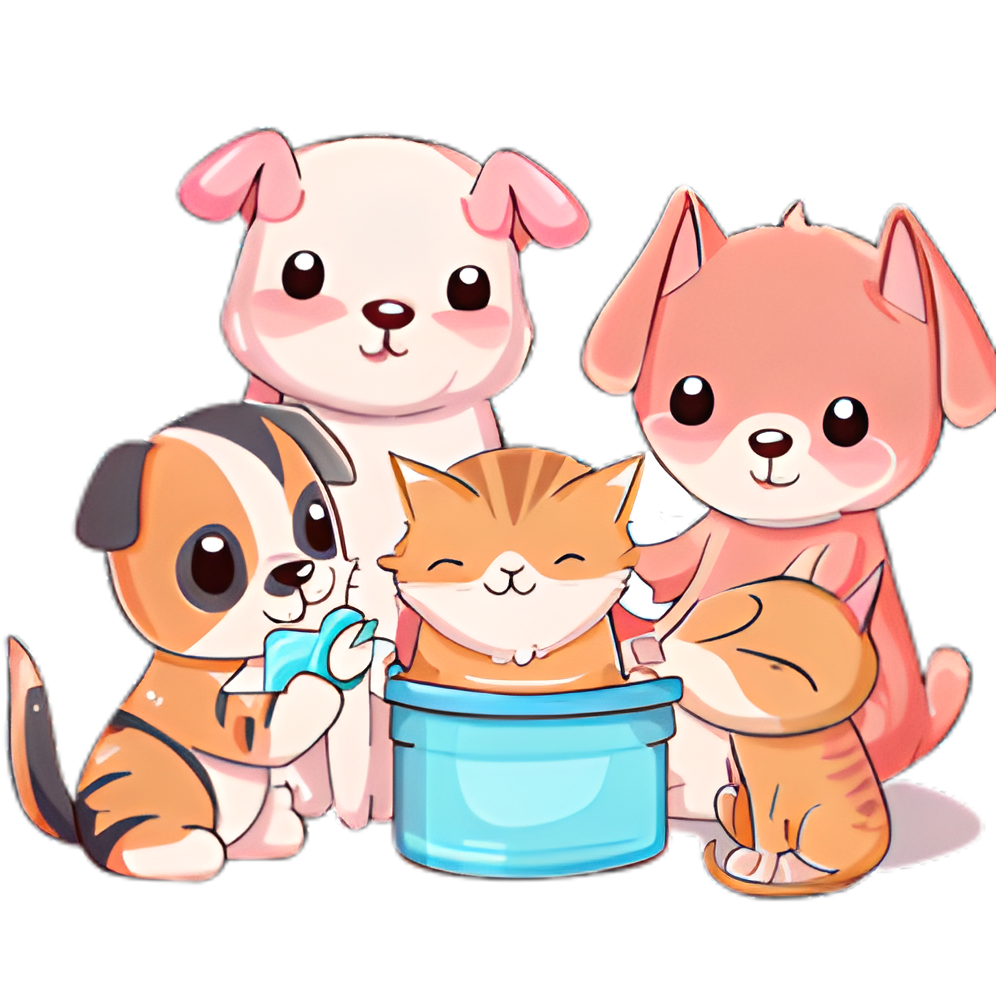
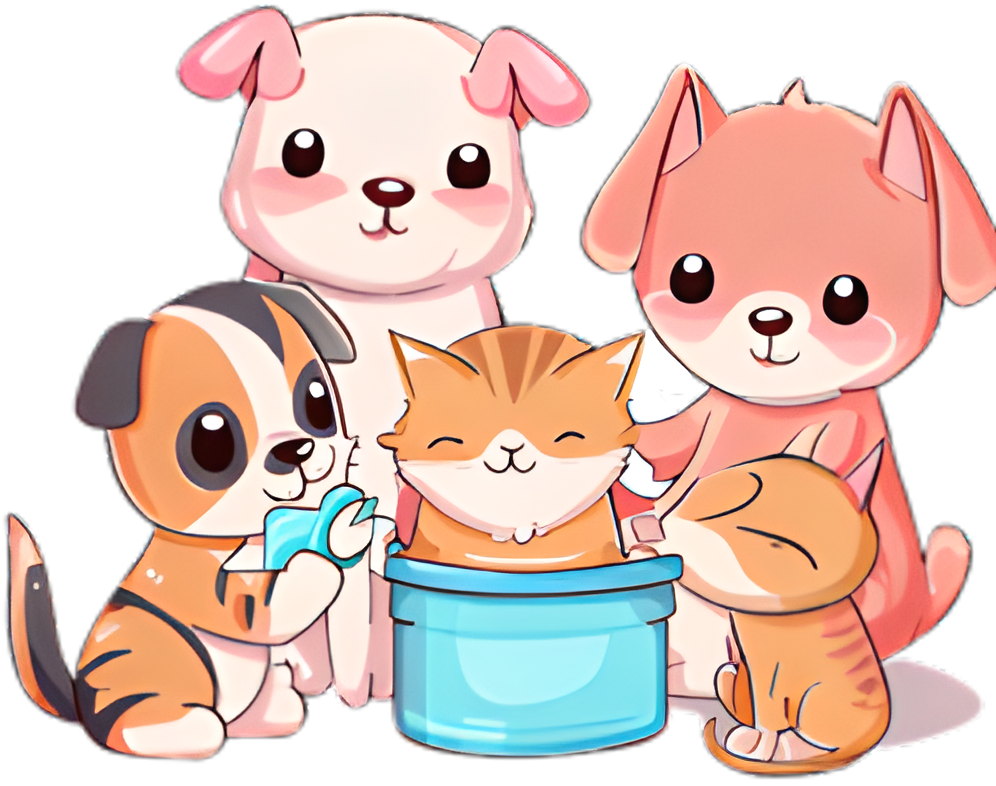
teste de respon.

diff --git a/estilos/media.css b/estilos/media.css
@@ -1,105 +1,85 @@
 /* Medium devices (tablets, 768px and up) */
 @media (min-width: 600px) {
-    h1 {
-        font-size: 3.5em;
-    }
-    .menu {
-        margin-top: -20px; 
+    .cabecalho {
+        margin-left: -70px;
     }
 
-    img {
-        width: 200px;
+    h1 {
+        font-size: 3.8em;
+        margin-left: 50px;
+    }
+    .imagemp, .imagemg, .logo, .logog {
+        display: none;
     }
 
     .imagem {
-        
-        width: 70vw;
-        transform: translate(10vw,-10vw);
+        display: block;
+        width: 300px;
     }
 
-    .logo {
-        width: 40%;
+    .menu {
+        font-size: 1.1em;
     }
 
     section {
-        max-width: 500px;
+        max-width: 530px;
         font-size: 1em;
     }
 
     footer {
         font-size: 1em;
-        transform: translateY(42vh);
     }
 }
 
 /* Large devices (desktops, 992px and up) */
 @media (min-width: 992px) {
-    .cabecalho {
-        margin-top: -30px;
-        margin-bottom: -30px;
-    }
-
-    .menu {
-        font-size: 1.5em;
-        margin: 30px;
-    }
-
-    h1 {
-        font-size: 4.5em;
-    }
-
-    img {
-        width: 350px;
+    .imagemp, .imagemg, .logo {
+        display: none;
     }
 
     .imagem {
-        width: 55vw;
-        transform: translate(22vw,-5vh);
-    }
-
-    .logo {
-        width: 35%;
-    }
-
-    section {
-        max-width: 800px;
-        font-size: 1.4em;
-    }
-
-    footer {
-        transform: translateY(40vh);
-        font-size: 1.3em;
-    }
-}
-
-@media (min-width: 1024px) {
-    .cabecalho {
-        margin-top: -50px;
-        margin-bottom: -40px;
+        display: block;
+        width: 320px;
     }
 
     .menu {
-        font-size: 1.3em;
+        font-size: 1.1em;
         margin: 10px;
     }
 
     h1 {
-        font-size: 4.1em;
-        
+        font-size: 4.3em;
     }
 
-    img {
-        width: 300px;
-
+    section {
+        max-width: 720px;
+        font-size: 1.1em;
     }
 
-    .imagem {
-        width: 40vw;
-        transform: translate(30vw,-10vh);
+    footer {
+        font-size: 1.1em;
+    }
+}
+
+@media (min-width: 1024px) {
+    .imagemp, .imagemg, .logop {
+        display: none;
+    }
+    .menu {
+        font-size: 1.2em;
+        margin: 15px;
+    }
+
+    h1 {
+        font-size: 4.2em;
     }
 
     .logo {
-        width: 35%;
+        display: block;
+        width: 150px;
+    }
+    .imagem {
+        display: block;
     }
 
     section {
@@ -108,49 +88,40 @@
     }
 
     footer {
-        transform: translateY(35vh);
-        font-size: 1.3em;
+        font-size: 1.2em;
     }
 }
 
 /* Extra large devices (large desktops, 1200px and up) */
 @media (min-width: 1280px) {
+    .imagemp, .logop {
+        display: none;
+    }
+
     h1 {
-    font-size: 4.7em;
-    width: 45%;
+        font-size: 4.7em;
+    
     }
     
     .menu {
-        font-size: 1.4em;
+        font-size: 1.2em;
         margin: 10px;
     }
 
-    .cabecalho {
-        margin-top: -50px;
-        margin-bottom: -40px;
-    }
-
-    img {
-        width: 320px;
-    }
-
     .imagem {
-        width: 30vw;
-        transform: translate(35vw,-6vh);
-        
+        width: 400px;
     }
 
     .logo {
-        width: 30%;
+        display: block;
     }
 
     section {
-        font-size: 1.1em;
-        max-width: 1000px;
+        font-size: 1.3em;
+        max-width: 1100px;
     }
 
     footer {
         font-size: 1.2em;
-        transform: translateY(40vh);
     }
 }

diff --git a/index.html b/index.html
@@ -3,15 +3,17 @@
 <head>
     <meta charset="UTF-8">
     <meta name="viewport" content="width=device-width, initial-scale=1.0">
-    <title>Document</title>
+    <title>Petshop</title>
     <link rel="stylesheet" href="estilos/style.css">
     <link rel="shortcut icon" href="favicon.ico" type="image/x-icon">
-    <link rel="stylesheet" href="estilos/meia.css">
+    <link rel="stylesheet" href="estilos/media.css">
 </head>
 <body>
     <header class="cabecalho">
         <picture>
-            <img class="logo" src="imagens/logo-p.png" alt="logo">
+            <img class="logop" src="imagens/logo-p.png" alt="logo">
+            <img class="logo" src="imagens/logo.png" alt="logo">
+            <img class="logog" src="imagens/logo-g.png" alt="logo">
         </picture>
         <h1>PETSHOP</h1>
 
@@ -37,7 +39,9 @@
 
     <div class="pic-img">
         <picture>
-            <img class="imagem" src="imagens/pet-p.png" alt="pets">
+            <img class="imagemp" src="imagens/pet-p.png" alt="pets">
+            <img class="imagem" src="imagens/pet.png" alt="pets">
+            <img class="imagemg" src="imagens/pet-g.png" alt="pets">
         </picture>
     </div>
     </main>

diff --git a/estilos/style.css b/estilos/style.css
@@ -13,6 +13,14 @@
     src: url(../fontes/American\ Captain.ttf) format(truetype);
 }
 
+.logo, .logog {
+    display: none;
+}
+
+.imagem, .imagemg {
+    display: none;
+}
+
 ::-webkit-scrollbar {
     width: 0px;
     height: 0px;
@@ -26,25 +34,24 @@ html, body {
 * {
     margin: 0px;
     padding: 0px;
+    color: black;
 }
 
 body {
     background-image: radial-gradient(#9e7c61 20%, #553b33 80%);
     font-weight: bold;
-    color: black;
     font-family: 'mali', 'Courier New', Courier, monospace;
 }
 
 p {
-    
-    font-size: 0.9em;
+    font-size: 0.95em;
 }
 
 h1 {
     font-family: titulopet, arial, sans-serif;
-    font-size: 2.8em;
-    width: 50%;
+    font-size: 3em;
     text-shadow: 3px 2px 10px #3a2721;
+    
 }
 
 
@@ -57,8 +64,7 @@ h1 {
     display: flex;
     justify-content: center; 
     align-items: center;
-    margin-top: -30px;
-    margin-bottom: -20px;
+    margin: 5px;
 }
 
 .menu {
@@ -82,11 +88,11 @@ a:hover {
 }
 
 section {
-    max-width: 320px;
+    max-width: 350px;
     text-align: center;
     margin: auto;
     padding: 10px;
-    font-size: .85em;
+    font-size: .9em;
 }
 
 footer {
